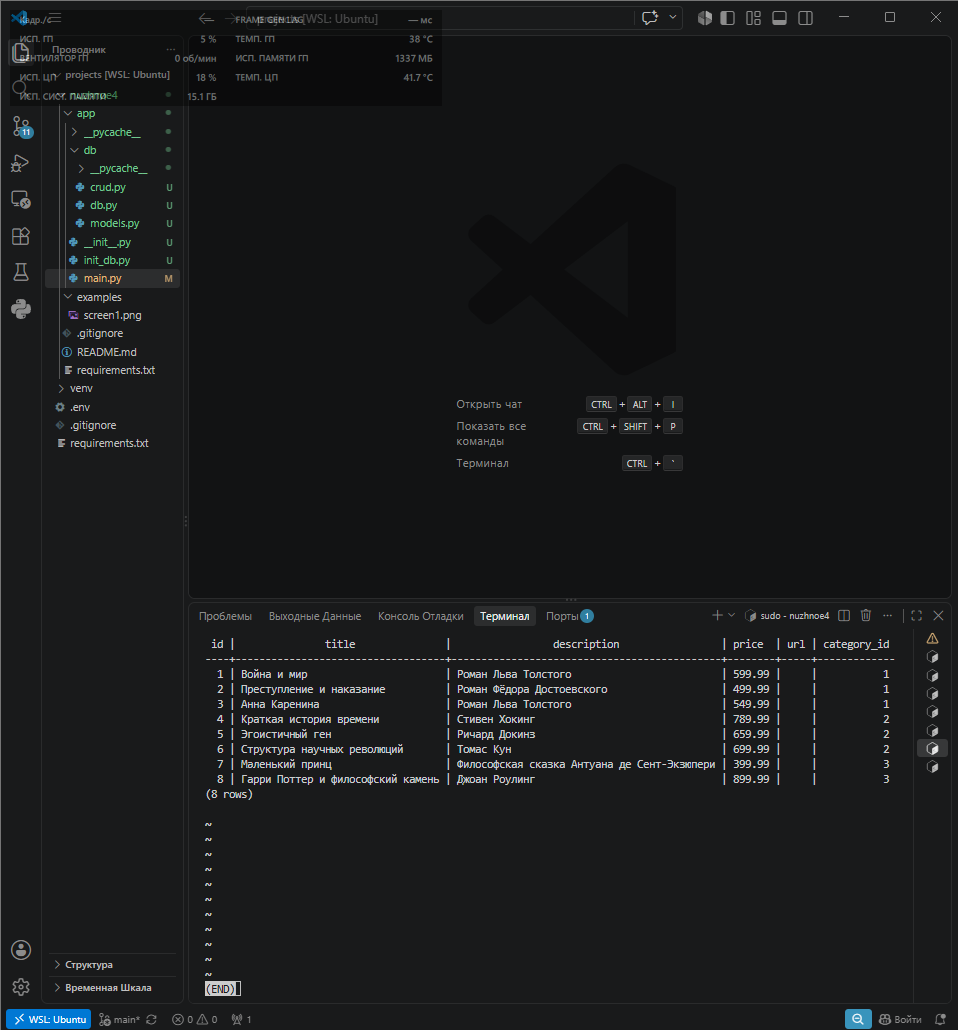
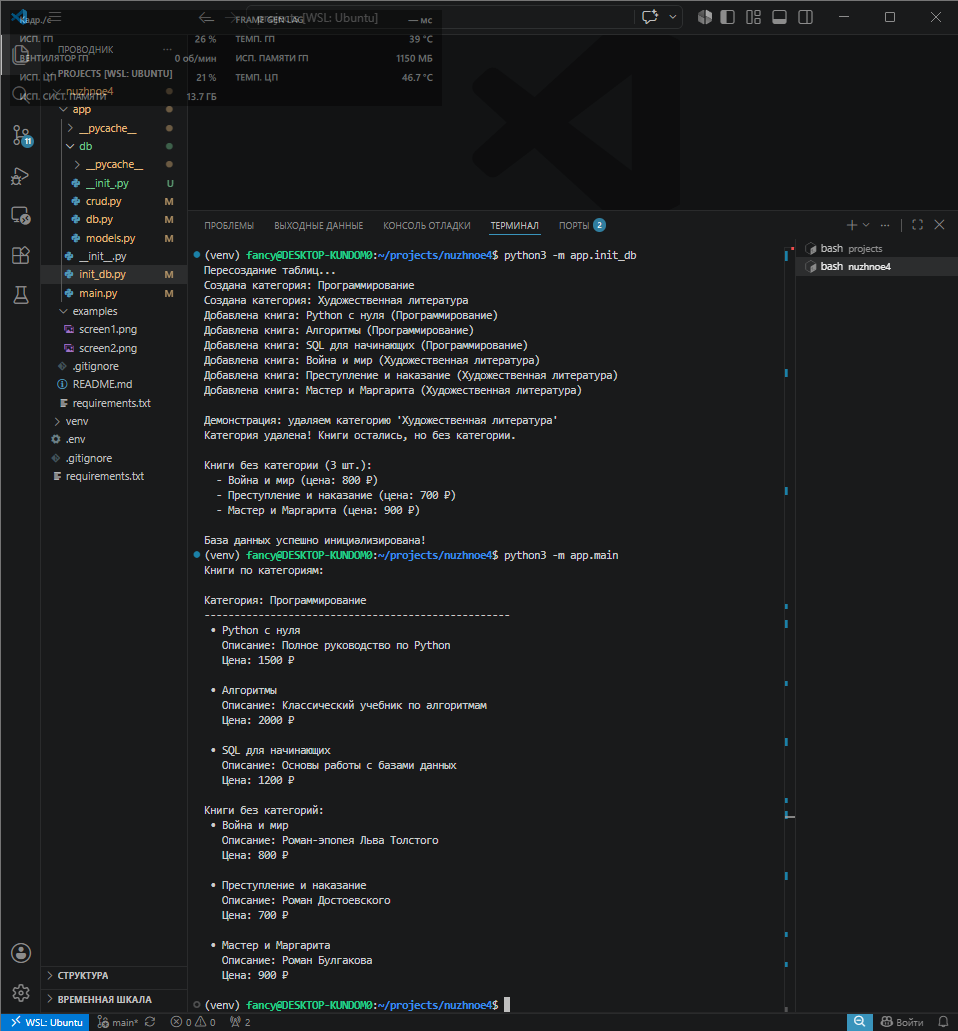
Добавлена работа с PostgreSQL и SQLAlchemy

diff --git a/app/init_db.py b/app/init_db.py
@@ -1,49 +1,72 @@
 from app.db.db import engine, SessionLocal
 from app.db import models
-from app.db.crud import create_category, create_book
+from app.db import crud
 
-def init_database():
+def init_db():
+    print("Пересоздание таблиц...")
+    models.Base.metadata.drop_all(bind=engine)
     models.Base.metadata.create_all(bind=engine)
     
     db = SessionLocal()
     
     try:
-        category1 = create_category(db, "Художественная литература")
-        category2 = create_category(db, "Научная литература")
-        category3 = create_category(db, "Детская литература")
+        categories = ["Программирование", "Художественная литература"]
         
-        print(f"Созданы категории: {category1.title}, {category2.title}, {category3.title}")
+        for cat_title in categories:
+            existing = db.query(models.Category).filter(models.Category.title == cat_title).first()
+            if not existing:
+                crud.create_category(db, cat_title)
+                print(f"Создана категория: {cat_title}")
         
-        books1 = [
-            ("Война и мир", "Роман Льва Толстого", 599.99, category1.id),
-            ("Преступление и наказание", "Роман Фёдора Достоевского", 499.99, category1.id),
-            ("Анна Каренина", "Роман Льва Толстого", 549.99, category1.id),
+        programming = db.query(models.Category).filter(models.Category.title == "Программирование").first()
+        fiction = db.query(models.Category).filter(models.Category.title == "Художественная литература").first()
+        
+        books_programming = [
+            {"title": "Python с нуля", "description": "Полное руководство по Python", "price": 1500, "url": ""},
+            {"title": "Алгоритмы", "description": "Классический учебник по алгоритмам", "price": 2000, "url": ""},
+            {"title": "SQL для начинающих", "description": "Основы работы с базами данных", "price": 1200, "url": ""},
         ]
         
-        for title, desc, price, cat_id in books1:
-            create_book(db, title, desc, price, cat_id)
+        for book in books_programming:
+            existing = db.query(models.Book).filter(
+                models.Book.title == book["title"],
+                models.Book.category_id == programming.id
+            ).first()
+            if not existing:
+                crud.create_book(db, **book, category_id=programming.id)
+                print(f"Добавлена книга: {book['title']} (Программирование)")
         
-        books2 = [
-            ("Краткая история времени", "Стивен Хокинг", 789.99, category2.id),
-            ("Эгоистичный ген", "Ричард Докинз", 659.99, category2.id),
-            ("Структура научных революций", "Томас Кун", 699.99, category2.id),
+        books_fiction = [
+            {"title": "Война и мир", "description": "Роман-эпопея Льва Толстого", "price": 800, "url": ""},
+            {"title": "Преступление и наказание", "description": "Роман Достоевского", "price": 700, "url": ""},
+            {"title": "Мастер и Маргарита", "description": "Роман Булгакова", "price": 900, "url": ""},
         ]
         
-        for title, desc, price, cat_id in books2:
-            create_book(db, title, desc, price, cat_id)
+        for book in books_fiction:
+            existing = db.query(models.Book).filter(
+                models.Book.title == book["title"],
+                models.Book.category_id == fiction.id
+            ).first()
+            if not existing:
+                crud.create_book(db, **book, category_id=fiction.id)
+                print(f"Добавлена книга: {book['title']} (Художественная литература)")
         
-        books3 = [
-            ("Маленький принц", "Философская сказка Антуана де Сент-Экзюпери", 399.99, category3.id),
-            ("Гарри Поттер и философский камень", "Джоан Роулинг", 899.99, category3.id),
-        ]
+        print("\nДемонстрация: удаляем категорию 'Художественная литература'")
+        crud.delete_category(db, fiction.id)
+        print("Категория удалена! Книги остались, но без категории.")
         
-        for title, desc, price, cat_id in books3:
-            create_book(db, title, desc, price, cat_id)
+        books_without_cat = crud.get_books_without_category(db)
+        print(f"\nКниги без категории ({len(books_without_cat)} шт.):")
+        for book in books_without_cat:
+            print(f"  - {book.title} (цена: {book.price} ₽)")
         
-        print("База данных успешно инициализирована!")
+        print("\nБаза данных успешно инициализирована!")
         
+    except Exception as e:
+        print(f"Ошибка: {e}")
+        db.rollback()
     finally:
         db.close()
 
 if __name__ == "__main__":
-    init_database()
+    init_db()

diff --git a/app/db/crud.py b/app/db/crud.py
@@ -2,71 +2,71 @@ from sqlalchemy.orm import Session
 from app.db import models
 
 def create_category(db: Session, title: str):
-    db_category = models.Category(title=title)
-    db.add(db_category)
+    category = models.Category(title=title)
+    db.add(category)
     db.commit()
-    db.refresh(db_category)
-    return db_category
+    db.refresh(category)
+    return category
 
-def get_category(db: Session, category_id: int):
+def get_categories(db: Session):
+    return db.query(models.Category).all()
+
+def get_category_by_id(db: Session, category_id: int):
     return db.query(models.Category).filter(models.Category.id == category_id).first()
 
-def get_category_by_title(db: Session, title: str):
-    return db.query(models.Category).filter(models.Category.title == title).first()
-
-def get_categories(db: Session, skip: int = 0, limit: int = 100):
-    return db.query(models.Category).offset(skip).limit(limit).all()
-
-def update_category(db: Session, category_id: int, title: str):
-    db_category = get_category(db, category_id)
-    if db_category:
-        db_category.title = title
+def update_category(db: Session, category_id: int, new_title: str):
+    category = get_category_by_id(db, category_id)
+    if category:
+        category.title = new_title
         db.commit()
-        db.refresh(db_category)
-    return db_category
+        db.refresh(category)
+    return category
 
 def delete_category(db: Session, category_id: int):
-    db_category = get_category(db, category_id)
-    if db_category:
-        db.delete(db_category)
+    category = get_category_by_id(db, category_id)
+    if category:
+        db.delete(category)
         db.commit()
-    return db_category
+    return category
 
-def create_book(db: Session, title: str, description: str, price: float, category_id: int, url: str = ''):
-    db_book = models.Book(
+def create_book(db: Session, title: str, description: str, price: int, category_id: int = None, url: str = ""):
+    book = models.Book(
         title=title,
         description=description,
         price=price,
-        url=url,
-        category_id=category_id
+        category_id=category_id,
+        url=url
     )
-    db.add(db_book)
+    db.add(book)
     db.commit()
-    db.refresh(db_book)
-    return db_book
+    db.refresh(book)
+    return book
 
-def get_book(db: Session, book_id: int):
-    return db.query(models.Book).filter(models.Book.id == book_id).first()
-
-def get_books(db: Session, skip: int = 0, limit: int = 100):
-    return db.query(models.Book).offset(skip).limit(limit).all()
+def get_books(db: Session):
+    return db.query(models.Book).all()
 
 def get_books_by_category(db: Session, category_id: int):
     return db.query(models.Book).filter(models.Book.category_id == category_id).all()
 
+def get_books_without_category(db: Session):
+    return db.query(models.Book).filter(models.Book.category_id.is_(None)).all()
+
+def get_book_by_id(db: Session, book_id: int):
+    return db.query(models.Book).filter(models.Book.id == book_id).first()
+
 def update_book(db: Session, book_id: int, **kwargs):
-    db_book = get_book(db, book_id)
-    if db_book:
+    book = get_book_by_id(db, book_id)
+    if book:
         for key, value in kwargs.items():
-            if hasattr(db_book, key):
-                setattr(db_book, key, value)
+            if hasattr(book, key):
+                setattr(book, key, value)
         db.commit()
-        db.refresh(db_book)
-    return db_book
+        db.refresh(book)
+    return book
 
 def delete_book(db: Session, book_id: int):
-    db_book = get_book(db, book_id)
-    if db_book:
-        db.delete(db_book)
+    book = get_book_by_id(db, book_id)
+    if book:
+        db.delete(book)
         db.commit()
-    return db_book
+    return book

diff --git a/app/main.py b/app/main.py
@@ -1,26 +1,43 @@
 from app.db.db import SessionLocal
-from app.db.crud import get_categories, get_books
+from app.db import crud
 
 def main():
     db = SessionLocal()
     
     try:
-        categories = get_categories(db)
-        print("\nКатегории книг")
-        for category in categories:
-            print(f"ID: {category.id}, Название: {category.title}")
+        print("Книги по категориям:")
         
-        books = get_books(db)
-        print("\nВсе книги")
-        for book in books:
-            print(f"ID: {book.id}, Название: {book.title}, Цена: {book.price} руб., Категория: {book.category.title if book.category else 'Без категории'}")
+        categories = crud.get_categories(db)
         
-        print("\nКниги по категориям")
-        for category in categories:
-            print(f"\nКатегория: {category.title}")
-            for book in category.books:
-                print(f"  - {book.title} ({book.price} руб.)")
+        if not categories:
+            print("Категории не найдены")
+        else:
+            for category in categories:
+                print(f"\nКатегория: {category.title}")
+                print("---------------------------------------------------")
+                
+                books = crud.get_books_by_category(db, category.id)
+                if books:
+                    for book in books:
+                        print(f" • {book.title}")
+                        print(f"   Описание: {book.description}")
+                        print(f"   Цена: {book.price} ₽")
+                        print()
+                else:
+                    print("  Книг в этой категории нет\n")
         
+        print("Книги без категорий:")
+        
+        books_without = crud.get_books_without_category(db)
+        if books_without:
+            for book in books_without:
+                print(f" • {book.title}")
+                print(f"   Описание: {book.description}")
+                print(f"   Цена: {book.price} ₽")
+                print()
+        else:
+            print(" Нет книг без категории")
+                
     finally:
         db.close()
 

diff --git a/app/db/models.py b/app/db/models.py
@@ -1,31 +1,23 @@
-from sqlalchemy import Column, Integer, String, Float, ForeignKey
+from sqlalchemy import Column, Integer, String, ForeignKey
 from sqlalchemy.orm import relationship
 from app.db.db import Base
 
 class Category(Base):
-    __tablename__ = 'categories'
+    __tablename__ = "categories"
     
     id = Column(Integer, primary_key=True, index=True)
     title = Column(String, nullable=False, unique=True)
     
-    # Связь с книгами
     books = relationship("Book", back_populates="category")
-    
-    def __repr__(self):
-        return f"<Category(id={self.id}, title='{self.title}')>"
 
 class Book(Base):
-    __tablename__ = 'books'
+    __tablename__ = "books"
     
     id = Column(Integer, primary_key=True, index=True)
     title = Column(String, nullable=False)
     description = Column(String)
-    price = Column(Float)
-    url = Column(String, default='')
-    category_id = Column(Integer, ForeignKey('categories.id'))
+    price = Column(Integer, nullable=False)
+    url = Column(String, default="")
+    category_id = Column(Integer, ForeignKey("categories.id", ondelete="SET NULL"), nullable=True)
     
-    # Связь с категорией
     category = relationship("Category", back_populates="books")
-    
-    def __repr__(self):
-        return f"<Book(id={self.id}, title='{self.title}', price={self.price})>"

diff --git a/app/db/db.py b/app/db/db.py
@@ -5,18 +5,10 @@ from dotenv import load_dotenv
 
 load_dotenv()
 
-DB_HOST = os.getenv('DB_HOST', 'localhost')
-DB_PORT = os.getenv('DB_PORT', '5432')
-DB_NAME = os.getenv('DB_NAME', 'octagon_db')
-DB_USER = os.getenv('DB_USER', 'octagon')
-DB_PASSWORD = os.getenv('DB_PASSWORD', '12345')
-
-DATABASE_URL = f"postgresql://{DB_USER}:{DB_PASSWORD}@{DB_HOST}:{DB_PORT}/{DB_NAME}"
+DATABASE_URL = f"postgresql://{os.getenv('DB_USER')}:{os.getenv('DB_PASSWORD')}@{os.getenv('DB_HOST')}:{os.getenv('DB_PORT')}/{os.getenv('DB_NAME')}"
 
 engine = create_engine(DATABASE_URL)
-
 SessionLocal = sessionmaker(autocommit=False, autoflush=False, bind=engine)
-
 Base = declarative_base()
 
 def get_db():
